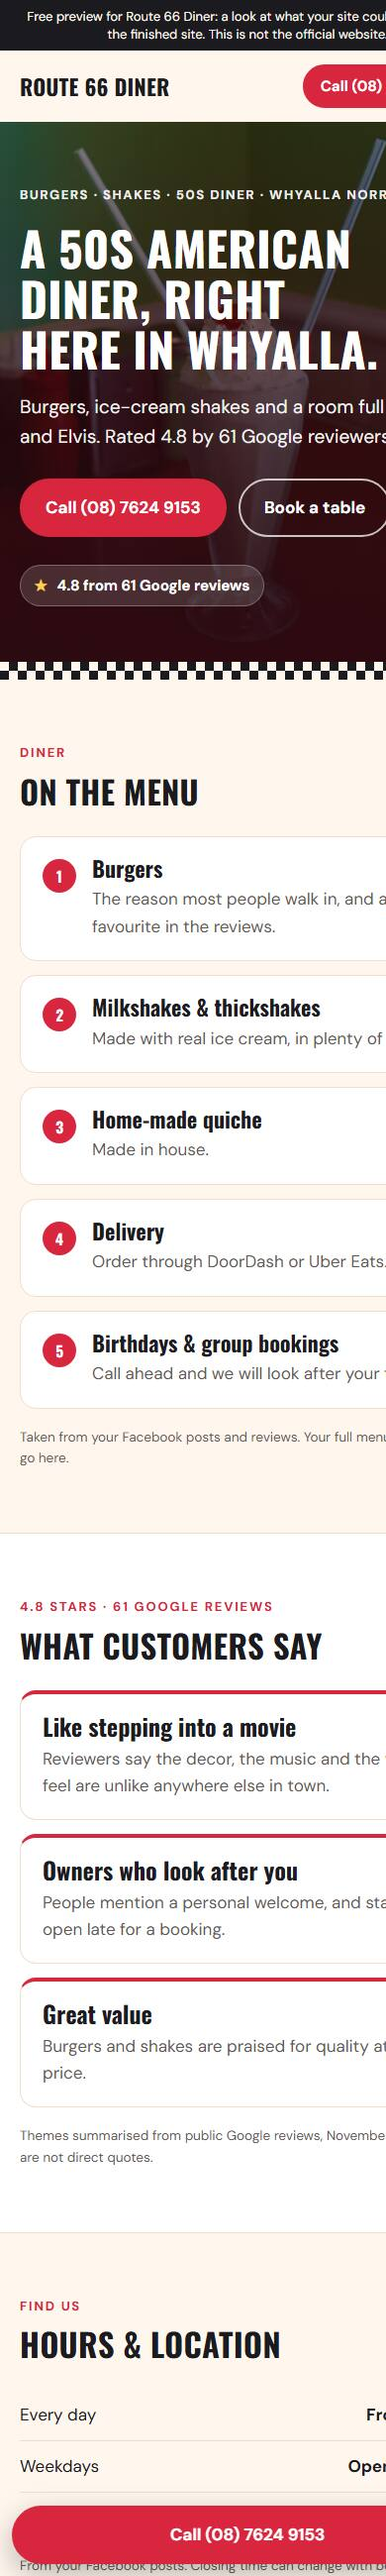
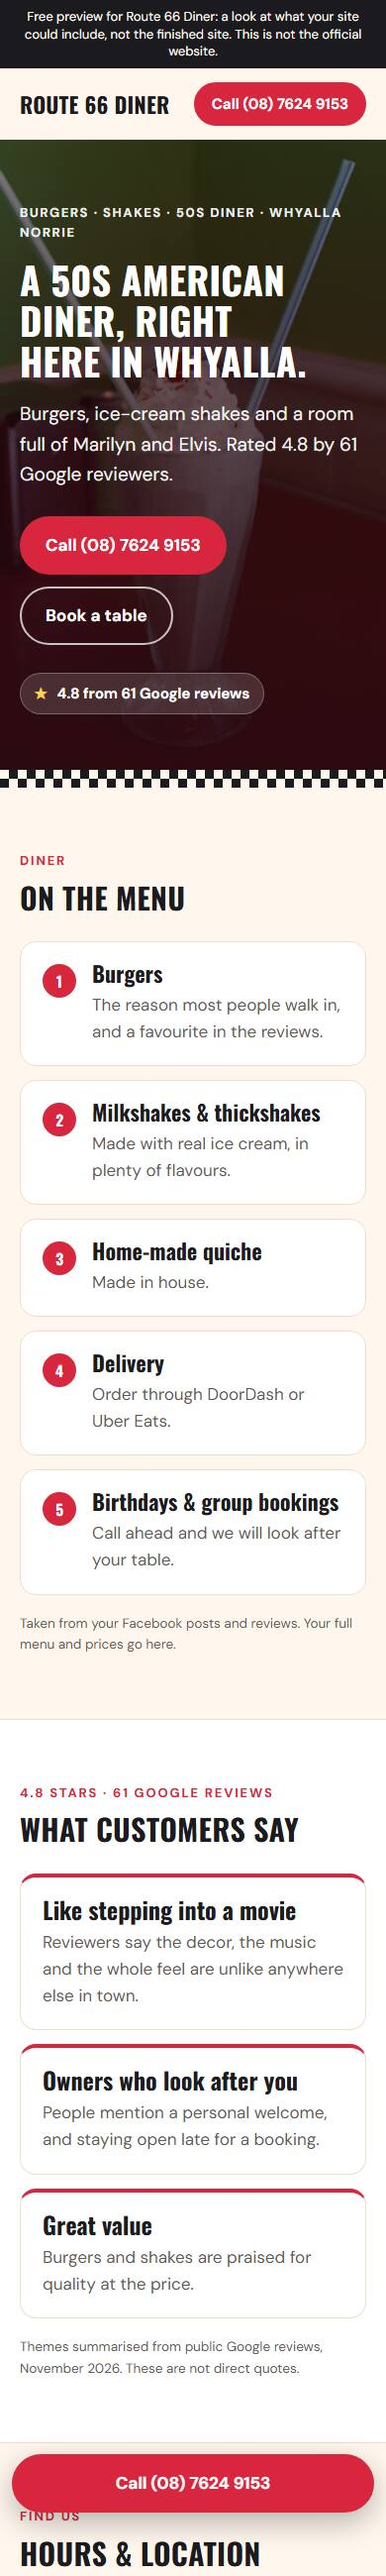
Mobile call bar sits above Netlify's badge; accurate 390px phone screenshots

diff --git a/sales-pipeline/shoot.js b/sales-pipeline/shoot.js
@@ -19,10 +19,15 @@ function fallback() {
   for (const p of prospects) {
     if (only && !only.includes(p.slug)) continue;
     const url = base ? `${base.replace(/\/$/, '')}/${p.slug}/` : 'file:///' + path.join(SITE, p.slug, 'index.html').replace(/\\/g, '/');
-    for (const [name, size] of [['mobile', '390,2600'], ['thumb', '1280,800']]) {
+    // Chrome won't make a window narrower than ~500px, so the phone shot loads the page in a
+    // 390px iframe inside a wider window, then crops to 390px.
+    const frame = path.join(profile, `${p.slug}-frame.html`);
+    fs.writeFileSync(frame, `<!doctype html><body style="margin:0"><iframe src="${url}" style="border:0;width:390px;height:2600px"></iframe>`);
+    const frameUrl = 'file:///' + frame.replace(/\\/g, '/');
+    for (const [name, size, target, crop] of [['mobile', '520,2600', frameUrl, '390x2600+0+0'], ['thumb', '1280,800', url, null]]) {
       const png = path.join(OUT, `${p.slug}-${name}.png`);
-      execFileSync(browser, ['--headless=new', '--disable-gpu', '--hide-scrollbars', `--user-data-dir=${profile}`, `--window-size=${size}`, '--virtual-time-budget=8000', `--screenshot=${png}`, url], { stdio: 'ignore' });
-      try { execFileSync('magick', [png, '-quality', name === 'mobile' ? '72' : '70', png.replace(/\.png$/, '.jpg')], { stdio: 'ignore' }); fs.unlinkSync(png); } catch (e) { /* keep the PNG */ }
+      execFileSync(browser, ['--headless=new', '--disable-gpu', '--hide-scrollbars', '--allow-file-access-from-files', `--user-data-dir=${profile}`, `--window-size=${size}`, '--virtual-time-budget=8000', `--screenshot=${png}`, target], { stdio: 'ignore' });
+      try { execFileSync('magick', [png, ...(crop ? ['-crop', crop, '+repage'] : []), '-quality', name === 'mobile' ? '72' : '70', png.replace(/\.png$/, '.jpg')], { stdio: 'ignore' }); fs.unlinkSync(png); } catch (e) { /* keep the PNG */ }
     }
     console.log('shot', p.slug);
   }

diff --git a/sales-pipeline/build.js b/sales-pipeline/build.js
@@ -29,7 +29,7 @@ const THEMES = {
 
 const CSS = `
 *{box-sizing:border-box}html{scroll-behavior:smooth;-webkit-text-size-adjust:100%}
-body{margin:0;background:var(--bg);color:var(--ink);font:400 17px/1.6 var(--bf),system-ui,sans-serif;padding-bottom:76px}
+body{margin:0;background:var(--bg);color:var(--ink);font:400 17px/1.6 var(--bf),system-ui,sans-serif;padding-bottom:130px}
 h1,h2,h3{font-family:var(--hf),var(--bf),sans-serif;line-height:1.08;margin:0;text-wrap:balance}
 .upper h1,.upper h2,.upper .brand{text-transform:uppercase;letter-spacing:.01em}
 a{color:inherit}img{max-width:100%;display:block}
@@ -79,7 +79,7 @@ textarea{min-height:120px;resize:vertical}
 .note.on{display:block}
 footer{padding:36px 0 28px;font-size:14px;color:var(--muted);border-top:1px solid var(--line)}
 footer p{margin:0 0 8px}footer strong{color:var(--ink)}
-.callbar{position:fixed;left:12px;right:12px;bottom:12px;z-index:20;box-shadow:0 10px 30px rgba(0,0,0,.28)}
+.callbar{position:fixed;left:12px;right:12px;bottom:64px;z-index:20;box-shadow:0 10px 30px rgba(0,0,0,.28)}
 @media(min-width:760px){body{padding-bottom:0}.callbar{display:none}.grid{grid-template-columns:repeat(2,1fr)}.grid.three{grid-template-columns:repeat(3,1fr)}.visit{grid-template-columns:1fr 1.15fr;align-items:start;gap:40px}.hero .wrap{padding-top:110px;padding-bottom:96px}section{padding:88px 0}.contact-grid{display:grid;grid-template-columns:1fr 1.1fr;gap:48px;align-items:start}}
 @media(prefers-reduced-motion:reduce){html{scroll-behavior:auto}}
 .adds{list-style:none;padding:0;margin:0;display:grid;gap:10px}

diff --git a/sales-pipeline/site/assets/demo.css b/sales-pipeline/site/assets/demo.css
@@ -1,5 +1,5 @@
 *{box-sizing:border-box}html{scroll-behavior:smooth;-webkit-text-size-adjust:100%}
-body{margin:0;background:var(--bg);color:var(--ink);font:400 17px/1.6 var(--bf),system-ui,sans-serif;padding-bottom:76px}
+body{margin:0;background:var(--bg);color:var(--ink);font:400 17px/1.6 var(--bf),system-ui,sans-serif;padding-bottom:130px}
 h1,h2,h3{font-family:var(--hf),var(--bf),sans-serif;line-height:1.08;margin:0;text-wrap:balance}
 .upper h1,.upper h2,.upper .brand{text-transform:uppercase;letter-spacing:.01em}
 a{color:inherit}img{max-width:100%;display:block}
@@ -49,7 +49,7 @@ textarea{min-height:120px;resize:vertical}
 .note.on{display:block}
 footer{padding:36px 0 28px;font-size:14px;color:var(--muted);border-top:1px solid var(--line)}
 footer p{margin:0 0 8px}footer strong{color:var(--ink)}
-.callbar{position:fixed;left:12px;right:12px;bottom:12px;z-index:20;box-shadow:0 10px 30px rgba(0,0,0,.28)}
+.callbar{position:fixed;left:12px;right:12px;bottom:64px;z-index:20;box-shadow:0 10px 30px rgba(0,0,0,.28)}
 @media(min-width:760px){body{padding-bottom:0}.callbar{display:none}.grid{grid-template-columns:repeat(2,1fr)}.grid.three{grid-template-columns:repeat(3,1fr)}.visit{grid-template-columns:1fr 1.15fr;align-items:start;gap:40px}.hero .wrap{padding-top:110px;padding-bottom:96px}section{padding:88px 0}.contact-grid{display:grid;grid-template-columns:1fr 1.1fr;gap:48px;align-items:start}}
 @media(prefers-reduced-motion:reduce){html{scroll-behavior:auto}}
 .adds{list-style:none;padding:0;margin:0;display:grid;gap:10px}
